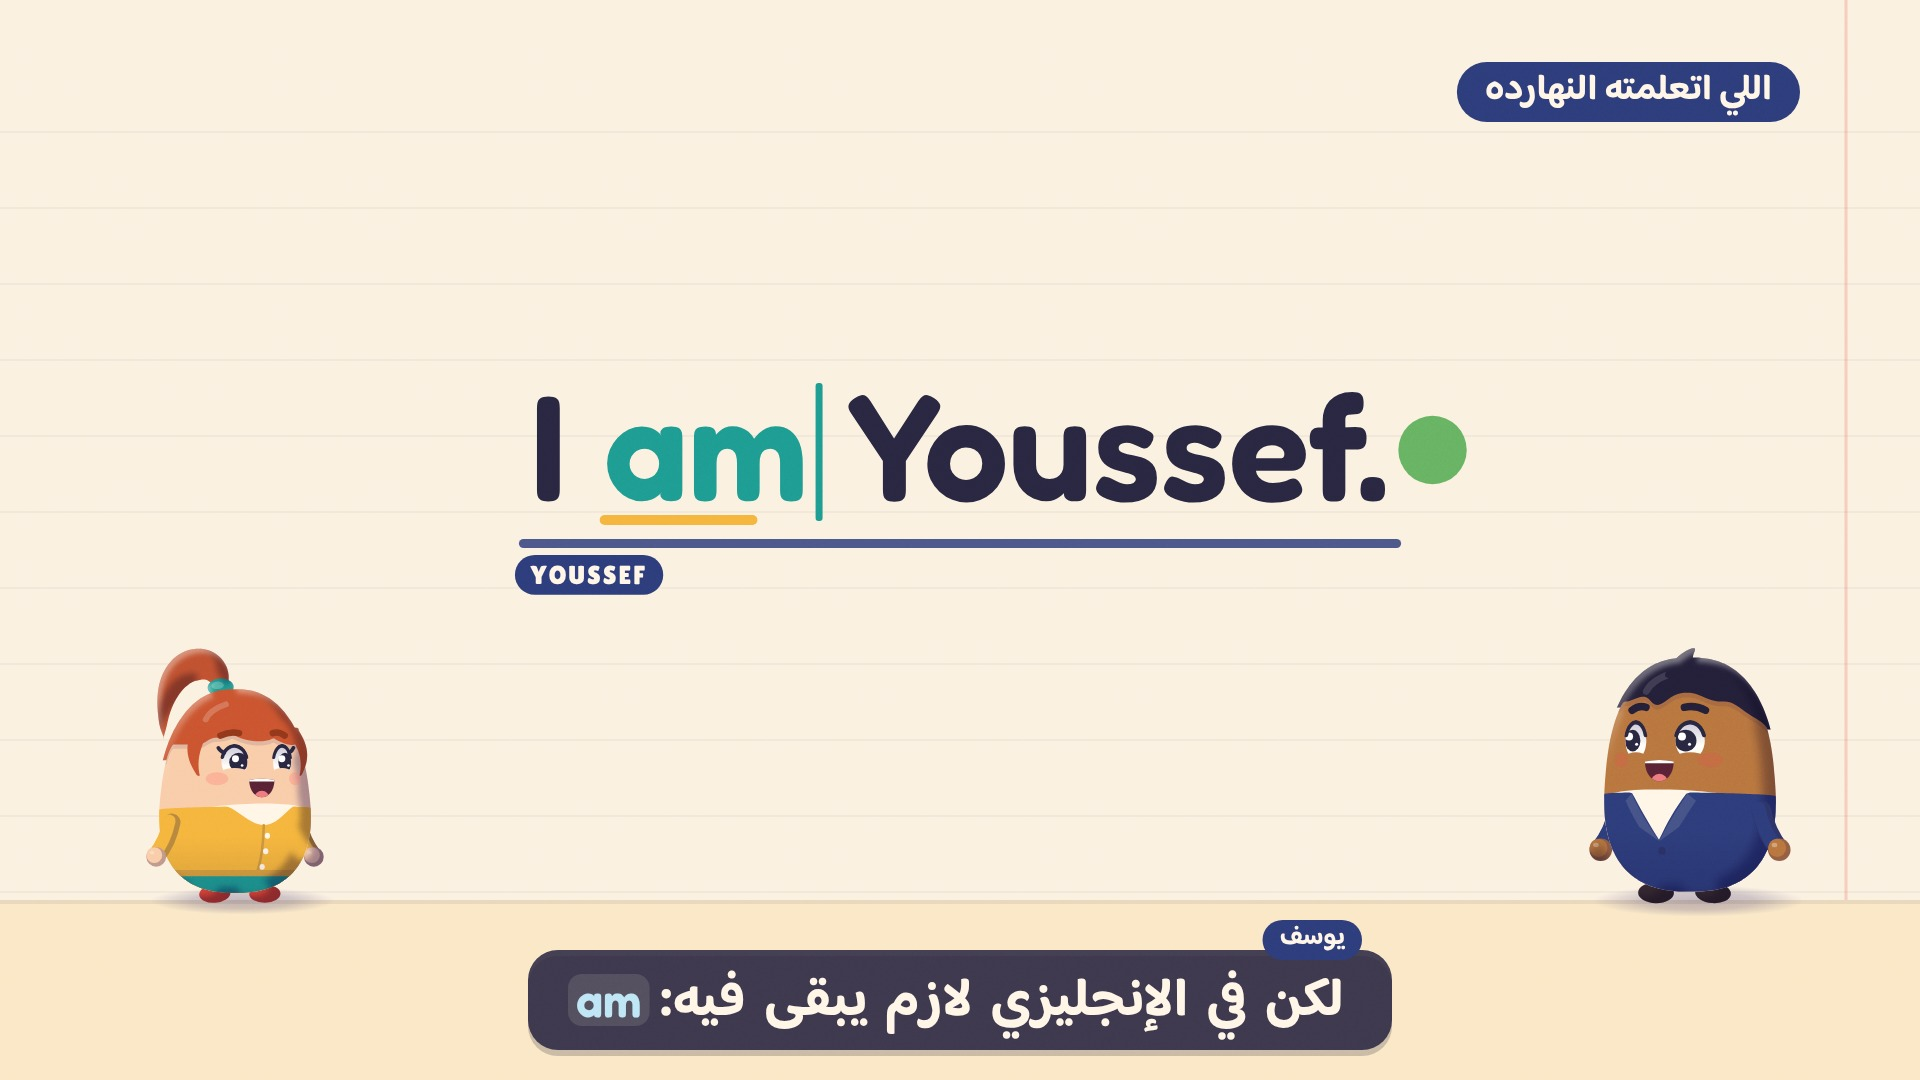
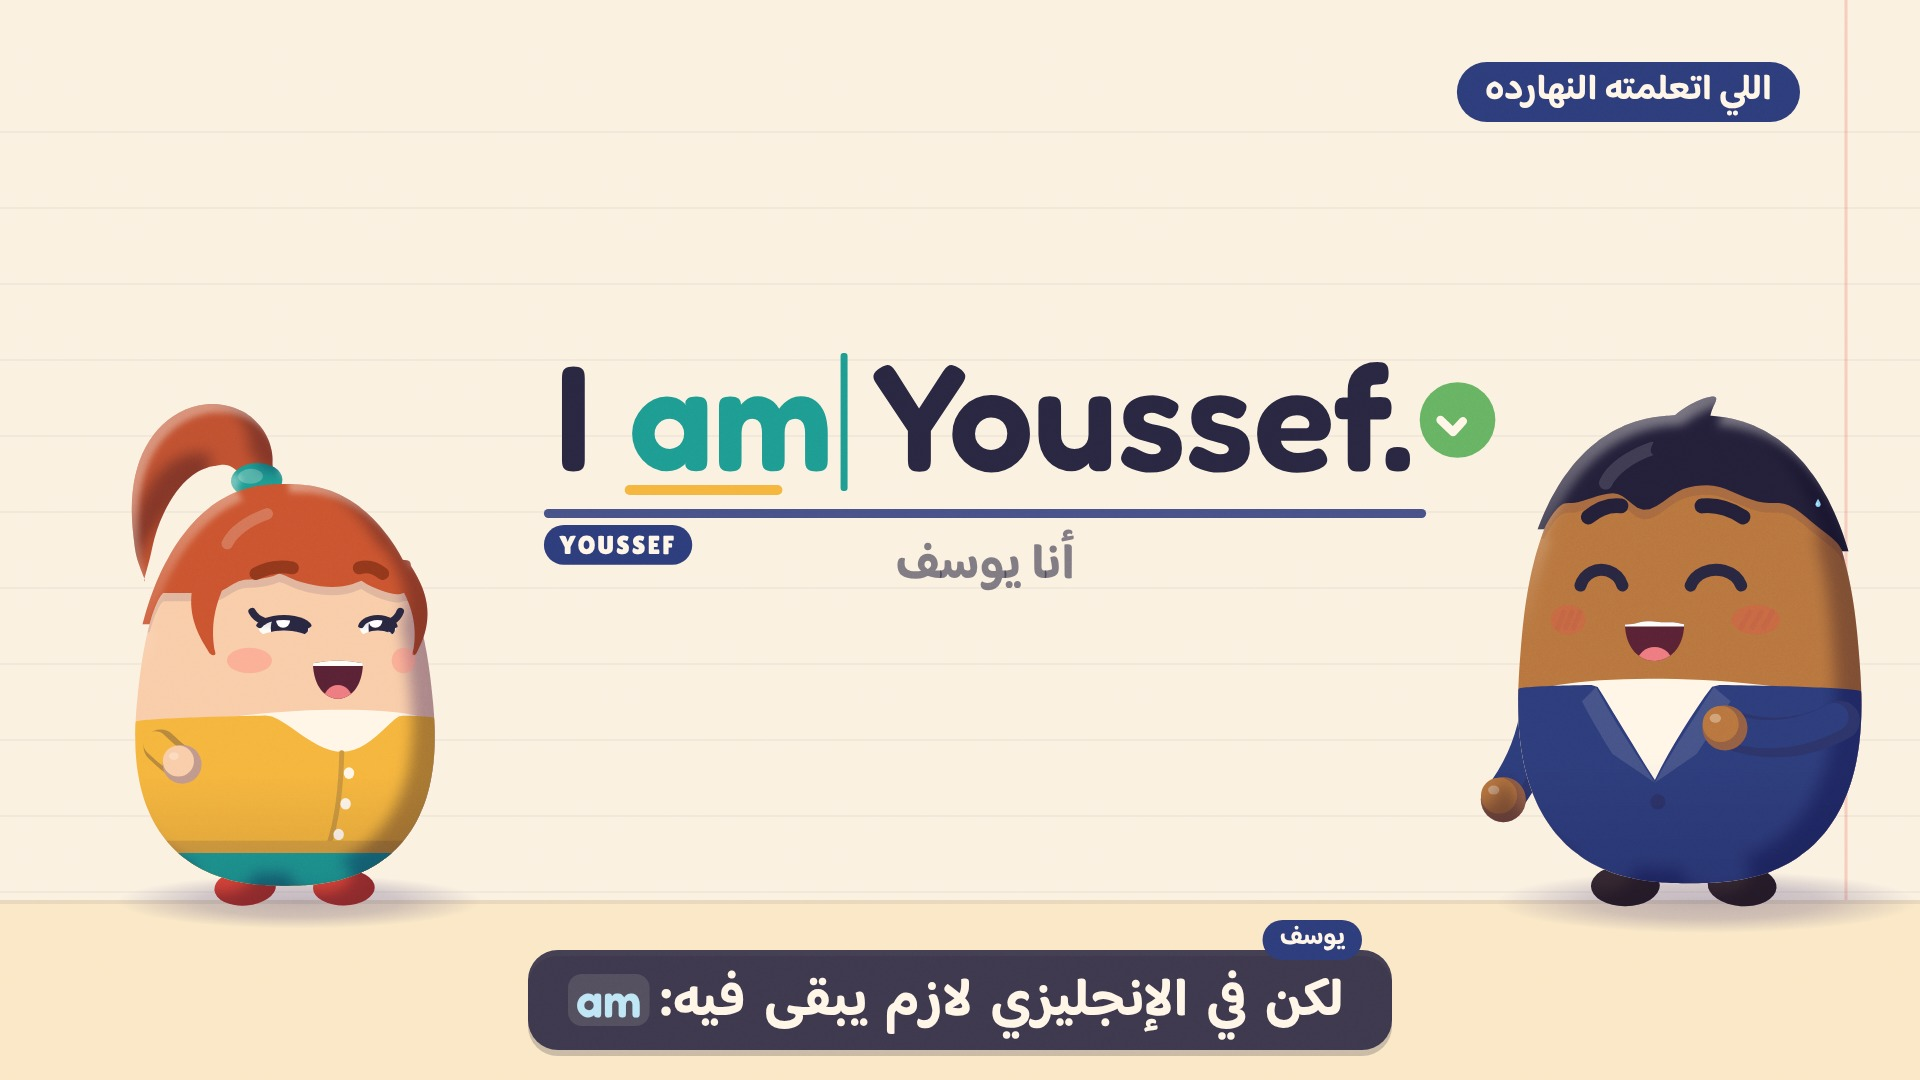
Episode 1: acted recap with meanings, subscribe fix, Latin punctuation in the plate
Claude-Session: https://claude.ai/code/session_01Ey97nqMLT4oVRE1erYCZ22

Changed region(s): [[0.25, 0.3361, 0.7812, 0.55], [0.75, 0.3667, 0.9688, 0.8556], [0.0625, 0.3667, 0.25, 0.8556]]

diff --git a/production/ep01-first-day/recap.js b/production/ep01-first-day/recap.js
@@ -44,7 +44,7 @@ export function buildRecap() {
   const narrSpans = TL.narration.filter(n => n.t0 >= rc.t0 - .1 && n.t1 <= rc.t1 + .1).flatMap(n => n.tok.map(o => [o.t0, o.t1]));
   // ---- presenters: two big beans that act (Youssef right facing left: his near arm is armR; Mia left facing right: armL) ----
   const hiT = it('hi').t0, sorryT = it('sorry').t0;
-  const YK = 1.6, MK_ = 1.5, YX = 1715, MX = 222;
+  const YK = 1.6, MK_ = 1.5, YX = 1690, MX = 285;
   R.YX = YX; R.MX = MX;
   const yRest = F('happy', { lx: -.5, happy: .35 }), mRest = F('happy', { lx: .5, happy: .35 });
   const yR = { id: 'youssef', talkExtra: narrSpans, base: { turn: -.3, face: yRest, armL: ARM.rest, armR: ARM.rest, alpha: 1, kmul: 1, sq: 1, lean: 0 },
@@ -60,8 +60,8 @@ export function buildRecap() {
   // every model line: the speaker turns to us with an open hand and talks (lip sync from talk); the other looks over and nods
   for (const l of recapLines) {
     const ys = l.who === 'youssef', [SK, LK] = ys ? [K, MK] : [MK, K];
-    SK.push({ t: l.t0 - .3, turn: ys ? -.1 : .1, face: F('happy', { lx: 0, ly: 0, happy: .45, bLy: .6, bRy: .6 }), [ys ? 'armR' : 'armL']: OPEN, d: .25 },
-      { t: l.t1 + .35, turn: ys ? -.3 : .3, face: ys ? yRest : mRest, [ys ? 'armR' : 'armL']: ARM.rest, d: .3 });
+    SK.push({ t: l.t0 - .3, turn: ys ? -.1 : .1, face: F('happy', { lx: 0, ly: 0, happy: .45, bLy: .6, bRy: .6 }), [ys ? 'armL' : 'armR']: OPEN, d: .25 },
+      { t: l.t1 + .35, turn: ys ? -.3 : .3, face: ys ? yRest : mRest, [ys ? 'armL' : 'armR']: ARM.rest, d: .3 });
     LK.push({ t: l.t0 - .15, face: F('happy', { lx: ys ? .75 : -.75, ly: -.05, happy: .55 }), d: .25 }, { t: l.t1 + .5, face: ys ? mRest : yRest, d: .3 });
     nod(LK, l.t1 - .05);
   }
@@ -91,7 +91,7 @@ export function buildRecap() {
   MK.push({ t: R.tEar - .1, armL: CUP, lean: .03, face: F('puzzled', { lx: .4 }), d: .3 }, { t: (r08 ? r08.t0 : sorryT + 3) - .35, armL: ARM.rest, lean: 0, d: .3 });
   // repeat gaps: Youssef turns to us with an open hand ("your turn"), Mia smiles at us
   for (const g of R.gaps) {
-    K.push({ t: g.t0, turn: -.08, face: F('happy', { lx: 0, ly: 0, happy: .55 }), armR: OPEN, d: .3 }, { t: g.t1 - .1, turn: -.3, armR: ARM.rest, face: yRest, d: .3 });
+    K.push({ t: g.t0, turn: -.08, face: F('happy', { lx: 0, ly: 0, happy: .55 }), armL: OPEN, d: .3 }, { t: g.t1 - .1, turn: -.3, armL: ARM.rest, face: yRest, d: .3 });
     MK.push({ t: g.t0 + .1, face: F('happy', { lx: 0, ly: 0, happy: .6 }), d: .3 }, { t: g.t1 - .1, face: mRest, d: .3 });
   }
   K.sort((p, q) => p.t - q.t); MK.sort((p, q) => p.t - q.t);
@@ -131,13 +131,13 @@ function drawRow(c, t, items, { x, y, size, who, alpha = 1, rail = true, ghost =
     if (g > 0) { rr(c, lx, ry, rx0 - lx, 9, 4.5); c.fillStyle = rgba(col, .18 * g); c.fill(); }
     if (k > 0) { const rx = x + Math.max(...vis.map(o => o.x + o.ww)) + 12; rr(c, lx, ry, (rx - lx) * k, 9, 4.5); c.fillStyle = rgba(col, .85); c.fill(); }
     const ta = Math.max(k, .45 * g);
-    if (ta > 0) { c.globalAlpha = alpha * ta; c.save(); c.font = '400 26px "Lilita One"'; c.letterSpacing = '2px'; const tw = c.measureText(S.name).width + 31; c.restore(); nameTab(c, S, lx - tw - 14, ry - 15, 26); c.globalAlpha = alpha; }
+    if (ta > 0) { c.globalAlpha = alpha * ta; tabAt(c, S, lx, ry); c.globalAlpha = alpha; }
   }
   // Arabic meaning, muted, under the line
   if (mean) {
     const ma = Math.max(g, shown.length ? 1 : 0);
     if (ma > 0) {
-      c.save(); c.globalAlpha = alpha * ma; c.direction = 'rtl'; c.font = `700 46px ${AR}`; c.textAlign = 'center'; c.textBaseline = 'middle';
+      c.save(); c.globalAlpha = alpha * ma; c.direction = 'rtl'; c.font = `700 50px ${AR}`; c.textAlign = 'center'; c.textBaseline = 'middle';
       const mwid = c.measureText(mean).width;
       if (meanHi > 0) { rr(c, x - mwid / 2 - 22, ry + 30, mwid + 44, 60, 30); c.fillStyle = rgba(P.mustard, .35 * meanHi); c.fill(); }
       c.fillStyle = rgba(P.ink, .58 + .3 * meanHi); c.fillText(mean, x, ry + 62); c.restore();
@@ -173,8 +173,13 @@ function drawRow(c, t, items, { x, y, size, who, alpha = 1, rail = true, ghost =
   c.restore();
   return { out, W, x, y, size };
 }
+// speaker tab at the rail's left end; when that would reach the presenter bean, it tucks under the start of the rail
+function tabAt(c, S, lx, ry) {
+  c.save(); c.font = '400 26px "Lilita One"'; c.letterSpacing = '2px'; const tw = c.measureText(S.name).width + 31; c.restore();
+  if (lx - tw - 14 >= 470) nameTab(c, S, lx - tw - 14, ry - 15, 26); else nameTab(c, S, lx, ry + 16, 26);
+}
 const fromLine = (id, stagger = 0) => { const l = LINE(id); return l ? l.tok.map((o, i) => ({ w: o.w, t: o.t0 - .06 + i * stagger, s0: o.t0, s1: o.t1 })) : []; };
-const fit = (items, size, maxW = 960) => { const { W } = layoutRow(items, size); return W > maxW ? size * maxW / W : size; };
+const fit = (items, size, maxW = 920) => { const { W } = layoutRow(items, size); return W > maxW ? size * maxW / W : size; };
 const wordX = (row, i) => row.x + row.out[i].x;
 
 // ---- the paper set ----
@@ -252,7 +257,7 @@ function gloss(c, txt, x, y, a) {
   c.fillStyle = P.navy; c.fillText(txt, 0, 4); c.restore();
 }
 // ---- items (each card comes in ghosted as soon as its item starts, while the Arabic explains) ----
-const CX = 965, Y1 = 385, Y2 = 645, YS = 470;
+const CX = 985, Y1 = 385, Y2 = 645, YS = 470;
 const ITEM = {
   hi(c, t, a, it) {
     drawRow(c, t, fromLine('r01'), { x: CX, y: Y1, size: 140, who: 'mia', alpha: a, ghost: it.t0, mean: 'أهلًا' });
@@ -301,8 +306,8 @@ const ITEM = {
     const ry = y + size * .26;
     rr(c, x0 - 12, ry, W + 24, 9, 4.5); c.fillStyle = rgba(P.navy, .85); c.fill();
     c.save(); c.font = '400 26px "Lilita One"'; c.letterSpacing = '2px'; const tw = c.measureText('YOUSSEF').width + 31; c.restore();
-    nameTab(c, SPEAKER.youssef, x0 - 12 - tw - 14, ry - 15, 26);
-    c.save(); c.direction = 'rtl'; c.font = `700 46px ${AR}`; c.textAlign = 'center'; c.textBaseline = 'middle'; c.fillStyle = rgba(P.ink, .58); c.fillText('أنا يوسف', CX, ry + 62); c.restore();
+    tabAt(c, SPEAKER.youssef, x0 - 12, ry);
+    c.save(); c.direction = 'rtl'; c.font = `700 50px ${AR}`; c.textAlign = 'center'; c.textBaseline = 'middle'; c.fillStyle = rgba(P.ink, .58); c.fillText('أنا يوسف', CX, ry + 62); c.restore();
     c.font = FONT(size); c.textBaseline = 'alphabetic'; c.textAlign = 'left';
     // "one word" pill behind I'm
     const one = eo(seg(t, R.tOne - .1, R.tOne + .3));
@@ -356,9 +361,9 @@ const ITEM = {
     if (t > R.tQul) {
       const r07 = LINE('r07'), sp = r07 ? r07.tok : [];
       const right = ['Nice', 'to', 'meet', 'you', 'too.'].map((w, i) => ({ w, t: R.tQul + .15 + i * .07, s0: sp[i]?.t0, s1: sp[i]?.t1, mark: i === 4 ? eo(seg(t, R.tQul + .7, R.tQul + 1.1)) : 0 }));
-      const size = fit(right, 130);
-      const row = drawRow(c, t, right, { x: CX, y: Y2, size, who: 'youssef', alpha: a, mean: 'وأنا كمان اتشرفت بيك' });
-      if (row) check(c, row.x + row.W / 2 + 60, Y2 - 45, 32, seg(t, R.tQul + .45, R.tQul + .8));
+      const size = fit(right, 130, 840), x = CX - 30;
+      const row = drawRow(c, t, right, { x, y: Y2, size, who: 'youssef', alpha: a, mean: 'وأنا كمان اتشرفت بيك' });
+      if (row) check(c, row.x + row.W / 2 + 48, Y2 - 45, 30, seg(t, R.tQul + .45, R.tQul + .8));
     }
   },
   sorry(c, t, a, it) {

diff --git a/production/ep01-first-day/timeline.py b/production/ep01-first-day/timeline.py
@@ -63,8 +63,8 @@ def tokens(k):
             for ar, lat in LATIN:
                 n = len(ar.split())
                 if [norm(x) for x in ws[i:i + n]] == [norm(x) for x in ar.split()]:
-                    tail = re.sub(r'^[\w-ۿ]+', '', ws[i + n - 1])  # keep trailing punctuation
-                    out.append((lat + tail, [norm(x) for x in ws[i:i + n]], ti))
+                    tail = re.sub(r'^[\w\u0621-\u064A]+', '', ws[i + n - 1])  # keep trailing punctuation
+                    out.append((lat + tail.translate(str.maketrans('،؟؛', ',?;')), [norm(x) for x in ws[i:i + n]], ti))
                     i += n
                     break
             else:
